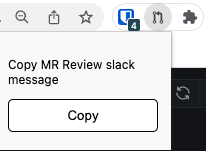
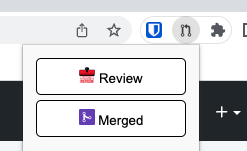
docs: update readme

diff --git a/README.md b/README.md
@@ -6,16 +6,20 @@ Compatbile with chrome, chromium like and firefox,
 
 ## How to use 
 
-On merge request page, click on buton "Copy" for message to clipboard
+On merge request page, click on buton "Review" for message to clipboard
 
 ![example](/images/example.png?raw=true)
 
-The message is formated 
+Review message is formated 
 
 ```
 :please_review: `folder/project` title of merger request [MR123](https://merge-request-url.example)
 ```
+Merged message is formated 
 
+```
+:merged: `folder/project` title of merger request [MR123](https://merge-request-url.example)
+```
 
 ## Slack 
 
